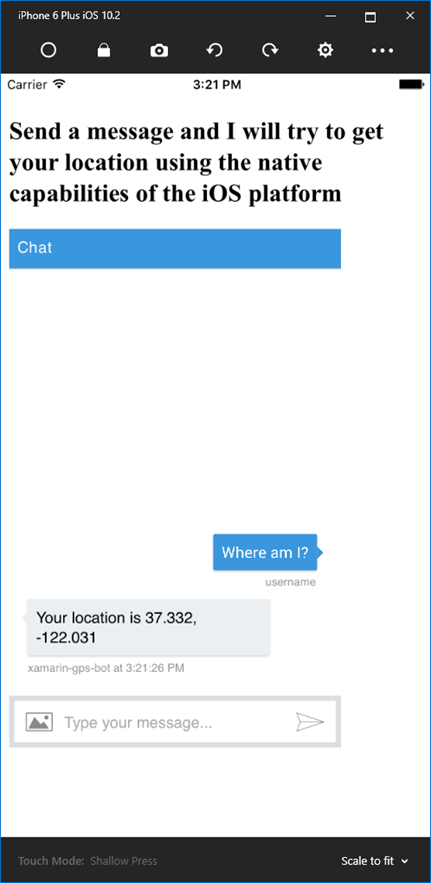
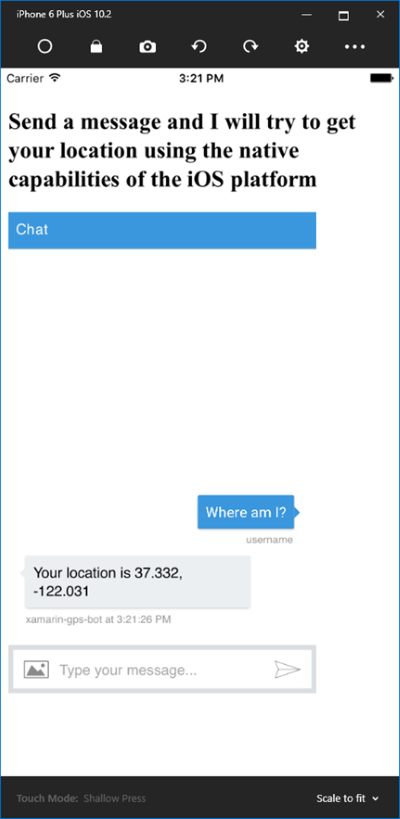
Update readme and image size

diff --git a/CSharp/capability-BackChannelXamarin/README.md b/CSharp/capability-BackChannelXamarin/README.md
@@ -1,6 +1,6 @@
-# Backchannel Bot Sample
+# XAmarin + BackChannel Bot Sample
 
-A sample bot showing how to interact with a mobile device and its Geoposition sensor.
+A sample showing how to interact with a bot via BackChannel from a Xamarin solution.
 
 ### Prerequisites
 The minimum prerequisites to run this sample are:
@@ -11,15 +11,18 @@ The minimum prerequisites to run this sample are:
 * Register your bot with the Microsoft Bot Framework. Please refer to [this](https://docs.botframework.com/en-us/csharp/builder/sdkreference/gettingstarted.html#registering) for the instructions.
 * Enable the Direct Line channel, edit the settings  
   ![DirectLine Channel](images/chatwidget-directline-channel.png) 
+
   and add a new site to get the Direct Line secret key.
+  
   ![DirectLine Token](images/chatwidget-directline-token.png)
+  
   Refer to [this](https://docs.botframework.com/en-us/csharp/builder/sdkreference/gettingstarted.html#channels) for more information on how to configure channels. 
-* Replace _"YourSecretKeyhere"_ on the `index.html` file of each platform ([Android](/Droid/Assets/Content/index.html), [iOS](/iOS/Content/index.html), [Universal Windows](/UWP/Content/index.html), [Windows Phone 8.1](/WinPhone81/Content/index.html)) with the Direct Line secret key.
+* Replace _"YourSecretKeyhere"_ on the `index.html` file of each platform ([Android](Droid/Assets/Content/index.html), [iOS](iOS/Content/index.html), [Universal Windows](UWP/Content/index.html), [Windows Phone 8.1](WinPhone81/Content/index.html)) with the Direct Line secret key.
 	
 	````JS
 	var params = { s: 'YourSecretKeyhere' };
 	````
-* Update the `ChatConnector`'s constructor in the [connectorSetup.js](/backGpsChannelBot/connectorSetup.js) file with your bot's credentials.
+* Update the `ChatConnector`'s constructor in the [connectorSetup.js](backGpsChannelBot/connectorSetup.js) file with your bot's credentials.
 	
 	````JS
 	var connector = new builder.ChatConnector({
@@ -41,10 +44,11 @@ The HybridWebView custom control is created in the portable class library (PCL) 
 * A CleanUp method that removes the reference to the registered Action.
 * An InvokeAction method that invokes the registered Action. This method will be called from a custom renderer in each platform-specific project.
 
-The `CustomRenderer` project is a Portable Class Library (PCL) project. Portable Class Libraries allow you to write code and produce libraries that can be shared across mulitple platforms including Xamarin.iOS, Xamarin.Android and Windows Phone 
+The `CustomRenderer` project is a Portable Class Library (PCL) project. Portable Class Libraries allow you to write code and produce libraries that can be shared across multiple platforms including Xamarin.iOS, Xamarin.Android and Windows Phone 
 
-The point of this sample is show how bots can interact with mobile sensors. We have one part in Xamarin projects: One PLC project and one project to each platform. The other part is running in nodeJS.
-Each Xamarin project has an ´index.html´ page with an embedded chat control. The bot running in nodeJS process the messages and creates a event message that is returned to the caller in ´index.html´ which invoke each platform custom implementation of [IGpsDataProvider](/CustomRenderer/Interfaces/IGpsDataProvider.cs) to provide the GPS location in each device.
+The purpose of this sample is show how bots, via BackChannel, can interact with Xamarin apps, in this case to retrieve the GPS location using the mobile sensors. The sample consists of a set of Xamarin projects (the PCL project and one project for each of the platforms) and the bot which was built using Node.js.
+
+Each Xamarin project has an ´index.html´ page with an embedded chat control. The bot running in nodeJS process the messages and creates a event message that is returned to the caller in ´index.html´ which invoke each platform custom implementation of [IGpsDataProvider](CustomRenderer/Interfaces/IGpsDataProvider.cs) to provide the GPS location in each device.
 
 ````JS
 botConnection.activity$.filter(function (activity) { return activity.type === "event" && activity.name === "getUserLocation" })
@@ -53,7 +57,8 @@ botConnection.activity$.filter(function (activity) { return activity.type === "e
 	});
 ````
 
-After the custom implementation is called and GPS location is returned as a [Position](/CustomRenderer/Models/Position.cs) model, the `gpsCallback` JavaScript function in the `index.html` is called within the coordinates and then it calls again the bot with a event message with the coordinates as value. This `event` is intercepted by the following code in the apps.js in nodeJS project. And the user receives it location.
+After the native custom implementation is called and the GPS location is returned as a [Position](CustomRenderer/Models/Position.cs) model, the `gpsCallback` JavaScript function in the `index.html` is called with the coordinates and then it calls again the bot with a event message with the coordinates as value. This `event` is intercepted by the following code in the [apps.js](backGpsChannelBot/app.js) in bot project and location is posted to the user.
+
 ````JS
 bot.on("event", function (event) {
 var msg = new builder.Message().address(event.address);
